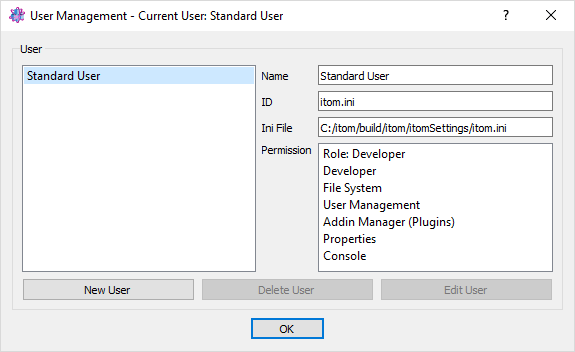
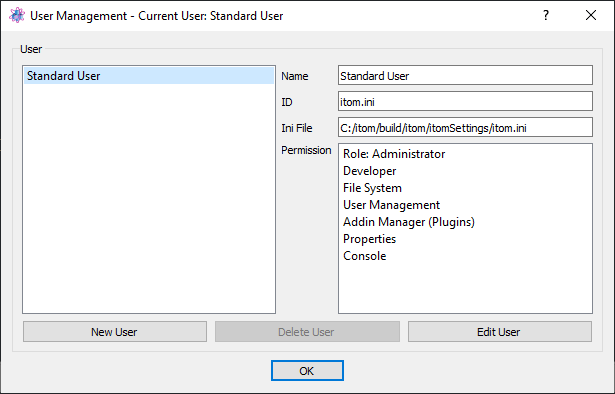
added new user management behavior to the docu :books:

diff --git a/Qitom/widgets/userManagementEdit.cpp b/Qitom/widgets/userManagementEdit.cpp
@@ -223,65 +223,12 @@ DialogUserManagementEdit::DialogUserManagementEdit(const QString &filename, User
     {
         setWindowTitle(tr("User Management - New User"));
 
-        QString username;
-        QString uid;
-        QByteArray password;
         UserFeatures features;
         UserRole role;
 		UserOrganizer *uio = qobject_cast<UserOrganizer*>(AppManagement::getUserOrganizer());
 
-		role = uio->getCurrentUserRole();
-		features = uio->getCurrentUserFeatures();
-
-		switch (role)
-		{
-		case ito::userRoleBasic:
-			ui.radioButton_roleUser->setChecked(true);
-			ui.radioButton_roleAdmin->setEnabled(false);
-			ui.radioButton_roleDevel->setEnabled(false);
-			break;
-		case ito::userRoleAdministrator:
-			ui.radioButton_roleAdmin->setChecked(true);
-			break;
-		case ito::userRoleDeveloper:
-			ui.radioButton_roleDevel->setChecked(true);
-			ui.radioButton_roleAdmin->setEnabled(false);
-			break;
-		default:
-			break;
-		}
-
-		if (role == ito::userRoleAdministrator)
-		{
-			ui.checkBox_devTools->setEnabled(true);
-			ui.checkBox_fileSystem->setEnabled(true);
-			ui.checkBox_userManag->setEnabled(true);
-			ui.checkBox_addInManager->setEnabled(true);
-			ui.checkBox_editProperties->setEnabled(true);
-		}
-		else
-		{
-			ui.checkBox_devTools->setEnabled(features & featDeveloper);
-			ui.checkBox_fileSystem->setEnabled(features & featFileSystem);
-			ui.checkBox_userManag->setEnabled(features & featUserManag);
-			ui.checkBox_addInManager->setEnabled(features & featPlugins);
-			ui.checkBox_editProperties->setEnabled(features & featProperties);
-		}
-
-		if ((features & featConsoleReadWrite))
-		{
-			ui.radioButton_consoleNormal->setChecked(true);
-		}
-		else if (features & featConsoleRead)
-		{
-			ui.radioButton_consoleRO->setChecked(true);
-		}
-		else
-		{
-			ui.radioButton_consoleOff->setChecked(true);
-		}
-               
-
+		enableWidgetsByUserRole(uio->getCurrentUserRole(), uio->getCurrentUserFeatures());
+	
     }
     else
     {
@@ -305,58 +252,7 @@ DialogUserManagementEdit::DialogUserManagementEdit(const QString &filename, User
                 m_oldPassword = password;
                 ui.lineEdit_password->setText(password);
 
-				role = uio->getCurrentUserRole();
-				features = uio->getCurrentUserFeatures();
-
-				switch (role)
-				{
-				case ito::userRoleBasic:
-					ui.radioButton_roleUser->setChecked(true);
-					ui.radioButton_roleAdmin->setEnabled(false);
-					ui.radioButton_roleDevel->setEnabled(false);
-					break;
-				case ito::userRoleAdministrator:
-					ui.radioButton_roleAdmin->setChecked(true);
-					break;
-				case ito::userRoleDeveloper:
-					ui.radioButton_roleDevel->setChecked(true);
-					ui.radioButton_roleAdmin->setEnabled(false);
-					break;
-				default:
-					break;
-				}
-
-				if (role == ito::userRoleAdministrator)
-				{
-					ui.checkBox_devTools->setEnabled(true);
-					ui.checkBox_fileSystem->setEnabled(true);
-					ui.checkBox_userManag->setEnabled(true);
-					ui.checkBox_addInManager->setEnabled(true);
-					ui.checkBox_editProperties->setEnabled(true);
-				}
-				else
-				{
-					ui.checkBox_devTools->setEnabled(features & featDeveloper);
-					ui.checkBox_fileSystem->setEnabled(features & featFileSystem);
-					ui.checkBox_userManag->setEnabled(features & featUserManag);
-					ui.checkBox_addInManager->setEnabled(features & featPlugins);
-					ui.checkBox_editProperties->setEnabled(features & featProperties);
-				}
-
-
-                if ((features & featConsoleReadWrite))
-                {
-                    ui.radioButton_consoleNormal->setChecked(true);
-                }
-                else if (features & featConsoleRead)
-                {
-                    ui.radioButton_consoleRO->setChecked(true);
-                }
-                else
-                {
-                    ui.radioButton_consoleOff->setChecked(true);
-                }
-
+				enableWidgetsByUserRole(uio->getCurrentUserRole(), uio->getCurrentUserFeatures());
 
                 QSettings settings(filename, QSettings::IniFormat);
                 settings.beginGroup("Python");
@@ -378,6 +274,65 @@ DialogUserManagementEdit::DialogUserManagementEdit(const QString &filename, User
 
     QString label = ui.checkAddFileRel->text().arg(QCoreApplication::applicationDirPath());
     ui.checkAddFileRel->setText(label);
+}
+
+//----------------------------------------------------------------------------------------------------------------------------------
+void DialogUserManagementEdit::enableWidgetsByUserRole(UserRole role, UserFeatures features)
+{
+	switch (role)
+	{
+	case ito::userRoleBasic:
+		ui.radioButton_roleUser->setChecked(true);
+		ui.radioButton_roleAdmin->setEnabled(false);
+		ui.radioButton_roleDevel->setEnabled(false);
+		break;
+	case ito::userRoleAdministrator:
+		ui.radioButton_roleAdmin->setChecked(true);
+		break;
+	case ito::userRoleDeveloper:
+		ui.radioButton_roleDevel->setChecked(true);
+		ui.radioButton_roleAdmin->setEnabled(false);
+		break;
+	default:
+		break;
+	}
+
+	if (role == ito::userRoleAdministrator)
+	{
+		ui.checkBox_devTools->setEnabled(true);
+		ui.checkBox_fileSystem->setEnabled(true);
+		ui.checkBox_userManag->setEnabled(true);
+		ui.checkBox_addInManager->setEnabled(true);
+		ui.checkBox_editProperties->setEnabled(true);
+		ui.radioButton_consoleNormal->setEnabled(true);
+		ui.radioButton_consoleRO->setEnabled(true);
+		ui.radioButton_consoleOff->setEnabled(true);
+	}
+	else
+	{
+		ui.checkBox_devTools->setEnabled(features & featDeveloper);
+		ui.checkBox_fileSystem->setEnabled(features & featFileSystem);
+		ui.checkBox_userManag->setEnabled(features & featUserManag);
+		ui.checkBox_addInManager->setEnabled(features & featPlugins);
+		ui.checkBox_editProperties->setEnabled(features & featProperties);
+		ui.radioButton_consoleNormal->setEnabled(features & featConsoleReadWrite);
+		ui.radioButton_consoleRO->setEnabled(features & featConsoleRead);
+		ui.radioButton_consoleOff->setEnabled(true);
+	}
+
+	if ((features & featConsoleReadWrite))
+	{
+		ui.radioButton_consoleNormal->setChecked(true);
+	}
+	else if (features & featConsoleRead)
+	{
+		ui.radioButton_consoleRO->setChecked(true);
+	}
+	else
+	{
+		ui.radioButton_consoleOff->setChecked(true);
+	}
+
 }
 
 //----------------------------------------------------------------------------------------------------------------------------------

diff --git a/Qitom/widgets/userManagementEdit.h b/Qitom/widgets/userManagementEdit.h
@@ -42,6 +42,7 @@ class DialogUserManagementEdit : public QDialog
 
     private:
         void updateScriptButtons();
+		void enableWidgetsByUserRole(UserRole role, UserFeatures features);
 
         UserModel *m_userModel;
         bool saveUser();

diff --git a/docs/userDoc/source/04_itom_gui/userManagement.rst b/docs/userDoc/source/04_itom_gui/userManagement.rst
@@ -43,13 +43,16 @@ The **Standard user** is the default user, which exists in every |itom| installa
 default settings file **itom.ini** in the folder **itomSettings**. The standard user can be considered to be an administrator with all
 rights. It is not possible to add a password to this standard user.
 
-The overview dialog provides the ability to create a new user, remove an existing user (besides the standard user) or edit any user.
+The overview dialog provides the ability to create a new user, remove an existing user (besides the standard user) or edit any user. 
 If a user is selected, basic properties are displayed on the right side of the dialog, like the name of the user, its unique ID, the
 related settings file (the filename usually is 'itom_' + ID + '.ini') as well as basic permissions. The permissions indicate which
 toolboxes, widgets and functionality the user is granted once itom is opened with its user rights. For instance, an user can only
 open the user management, if the permission 'User Management' is granted to this user.
 
-Click **New User** or **Edit User** to open another dialog, where you can change the specific rights of the existing or new user.
+Click **New User** or **Edit User** to open another dialog, where you can change the specific permission of the existing or new user.
+Depending on the current user role and features permission, new user can only be created (editing existing users also) with the same or less role and permission. 
+The hierarchy is that an admin can create/edit an admin, developer and user. A developer can create/edit a developer and user. 
+A user can create/edit only a user. 
 
 .. figure:: images/userManagement3.png
     :scale: 100%
